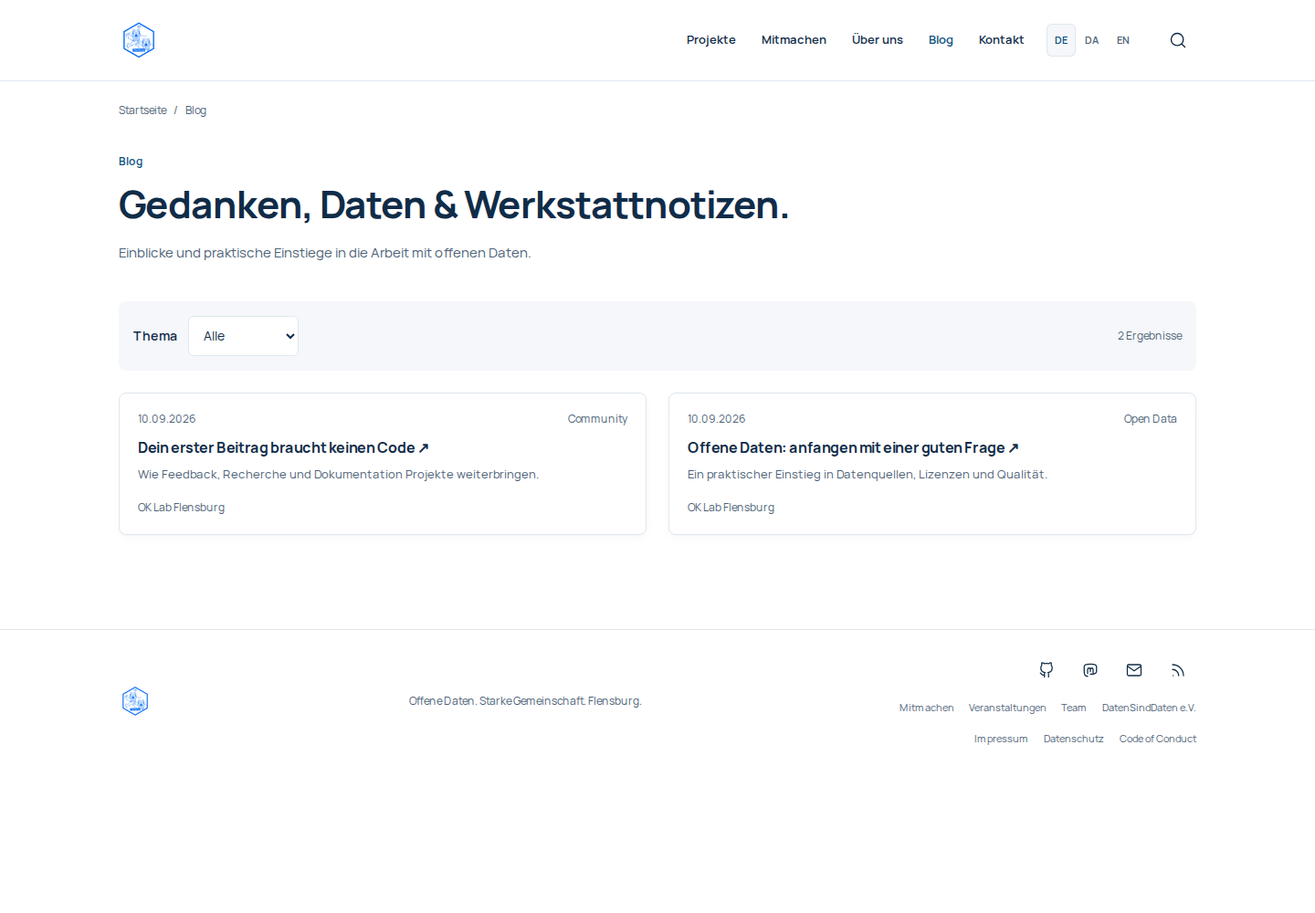
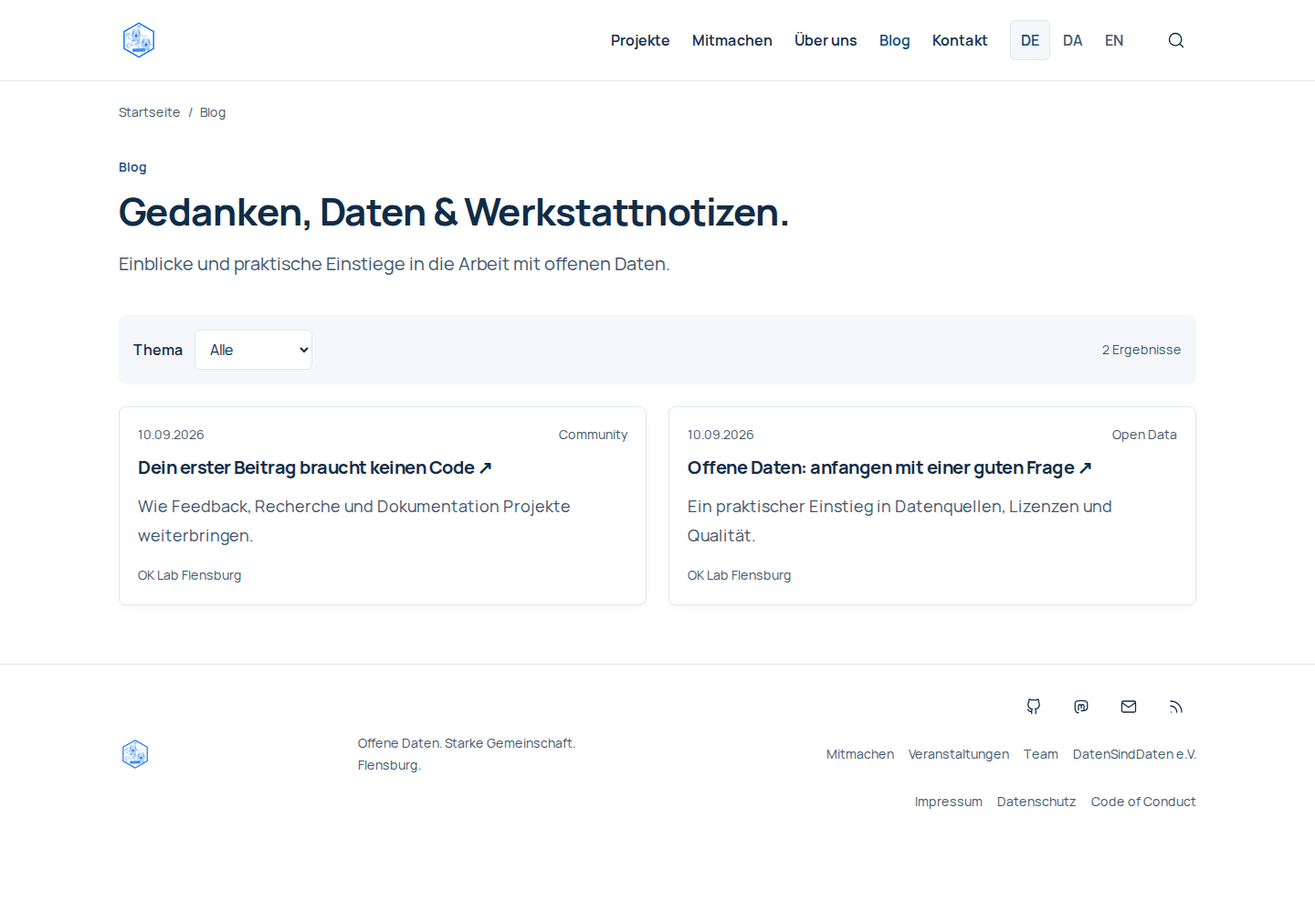
refactor(ui): improve typography and readability

diff --git a/app/assets/css/main.css b/app/assets/css/main.css
@@ -6,7 +6,7 @@
   --color-surface: #ffffff;
   --color-surface-muted: #f5f7fa;
   --color-text: #102c48;
-  --color-text-muted: #4e6277;
+  --color-text-muted: #40566b;
   --color-border: #dfe7ee;
   --font-sans: 'Manrope', ui-sans-serif, system-ui, sans-serif;
   --radius-sm: 6px;
@@ -23,9 +23,10 @@
 }
 
 @layer base {
-  body { @apply m-0 bg-surface font-sans text-text antialiased leading-relaxed; }
+  body { @apply m-0 bg-surface font-sans text-base leading-7 text-text antialiased; }
   a { text-underline-offset: 0.22em; }
   button, input, select { font: inherit; }
+  input::placeholder { @apply text-text-muted opacity-100; }
   code, pre, kbd, samp { @apply font-sans; }
   button, a, select { -webkit-tap-highlight-color: transparent; }
   button { @apply cursor-pointer; }
@@ -37,30 +38,32 @@
 }
 
 @layer components {
+  /* Tailwind type scale: body 16/18, lead 18/20, metadata 14, micro 12.
+     Keep long-form text at 28/32 px line height and at most 48rem wide. */
   .shell { @apply mx-auto w-[calc(100%-2.5rem)] max-w-[1180px] md:w-[calc(100%-4rem)]; }
   .page { @apply min-h-[60vh] pb-16; }
   .header { @apply border-b border-border bg-white; }
   .header-inner { @apply flex min-h-[76px] items-center gap-6 md:min-h-[88px]; }
   .brand { @apply flex shrink-0 items-center gap-3 no-underline; }
-  .desktop-nav { @apply ml-auto hidden items-center gap-7 text-[13px] font-semibold min-[1101px]:flex; }
+  .desktop-nav { @apply ml-auto hidden items-center gap-6 text-base font-semibold min-[1101px]:flex; }
   .desktop-nav a { @apply py-3 no-underline hover:text-brand; }
   .desktop-nav .router-link-active { @apply text-brand; }
   .desktop-languages { @apply hidden min-[1101px]:block; }
   .languages { @apply flex items-center gap-0.5; }
-  .languages a { @apply grid min-h-9 min-w-8 place-items-center rounded-sm text-[11px] font-semibold text-text-muted no-underline; }
+  .languages a { @apply grid min-h-11 min-w-11 place-items-center rounded-sm text-base font-semibold text-text-muted no-underline; }
   .languages a[aria-current] { @apply bg-surface-muted text-brand ring-1 ring-inset ring-border; }
-  .icon-button { @apply inline-flex size-10 shrink-0 items-center justify-center rounded-sm text-text hover:bg-surface-muted; }
-  .menu-toggle { @apply ml-auto flex min-h-11 items-center gap-2 rounded-sm border border-border bg-white px-3 text-xs font-semibold min-[1101px]:hidden; }
+  .icon-button { @apply inline-flex size-11 shrink-0 items-center justify-center rounded-sm text-text hover:bg-surface-muted; }
+  .menu-toggle { @apply ml-auto flex min-h-11 items-center gap-2 rounded-sm border border-border bg-white px-3 text-base font-semibold min-[1101px]:hidden; }
   .mobile-panel { @apply pb-4 min-[1101px]:hidden; }
-  .mobile-panel nav:not(.languages) { @apply mb-3 grid grid-cols-2; }
-  .mobile-panel nav:not(.languages) a { @apply py-3 text-sm font-semibold no-underline; }
+  .mobile-panel nav:not(.languages) { @apply mb-3 grid grid-cols-2 gap-x-4; }
+  .mobile-panel nav:not(.languages) a { @apply min-h-11 py-3 text-lg font-semibold no-underline; overflow-wrap: anywhere; }
   .skip-link { @apply fixed -top-24 left-4 z-20 bg-brand px-4 py-3 text-white focus:top-4; }
-  .button { @apply inline-flex min-h-11 items-center justify-center gap-3 rounded-sm border border-transparent bg-brand px-5 py-2.5 text-sm font-semibold text-white no-underline transition-colors hover:bg-brand-dark; }
+  .button { @apply inline-flex min-h-11 max-w-full items-center justify-center gap-3 rounded-sm border border-transparent bg-brand px-5 py-2.5 text-base leading-6 font-semibold text-white no-underline transition-colors hover:bg-brand-dark; }
   .button-secondary { @apply border-[#8096ab] bg-white text-text hover:bg-surface-muted; }
   .button-row { @apply flex flex-wrap gap-3; }
-  .text-link { @apply inline-flex items-center gap-2 py-2 text-xs font-semibold text-brand no-underline hover:underline; }
-  .lead { @apply mb-6 max-w-[620px] text-[15px] leading-relaxed text-text-muted; }
-  .eyebrow { @apply mb-3 text-xs font-semibold text-brand; }
+  .text-link { @apply inline-flex min-h-11 items-center gap-2 py-2 text-base leading-7 font-semibold text-brand no-underline hover:underline; }
+  .lead { @apply mb-6 max-w-2xl text-lg leading-7 text-text-muted md:text-xl md:leading-8; }
+  .eyebrow { @apply mb-3 text-sm font-semibold text-brand; }
   .hero { @apply relative grid items-center gap-2 py-9 md:min-h-[470px] md:grid-cols-[45%_55%] md:gap-0 md:py-12; }
   .hero-copy { @apply relative z-10; }
   .hero h1 { @apply mb-6 max-w-[550px] text-[34px] font-extrabold leading-[1.08] tracking-[-0.035em] md:text-[46px] lg:text-[52px]; }
@@ -68,18 +71,18 @@
   .hero-visual { @apply relative -mx-5 h-[280px] overflow-hidden md:absolute md:inset-y-0 md:right-[-32px] md:m-0 md:h-auto md:w-[65%]; }
   .hero-visual img { @apply size-full object-cover; }
   .hero-map-fade { @apply pointer-events-none absolute inset-0 bg-linear-to-b from-white via-transparent to-white md:bg-linear-to-r md:from-white md:via-white/10 md:to-transparent; }
-  .map-credit { @apply absolute right-4 bottom-3 rounded-sm bg-white/95 px-2 py-1 text-[10px] text-text-muted; }
+  .map-credit { @apply absolute right-4 bottom-3 rounded-sm bg-white/95 px-2 py-1 text-xs text-text-muted; }
   .map-caption { @apply absolute right-8 bottom-14 max-w-36 text-right text-sm font-semibold leading-relaxed text-brand md:bottom-16; }
   .pillars { @apply bg-surface-muted; }
   .pillars-inner { @apply grid grid-cols-2 gap-x-3 gap-y-6 py-6 md:grid-cols-4 md:gap-6 md:py-7; }
   .pillars article { @apply flex items-start gap-3; }
   .pillar-icon { @apply mt-0.5 inline-flex shrink-0 text-text; }
-  .pillars h2 { @apply mb-1 text-[13px] font-bold tracking-normal md:text-sm; }
-  .pillars p { @apply m-0 text-xs leading-relaxed text-text-muted; }
+  .pillars h2 { @apply mb-1 text-base font-bold tracking-normal leading-snug; }
+  .pillars p { @apply m-0 text-sm leading-6 text-text-muted; }
   .section { @apply py-9 md:py-10; }
-  .section-heading { @apply mb-5 flex items-center justify-between gap-4; }
-  .section-heading h2 { @apply mb-0 text-2xl md:text-[28px]; }
-  .section-heading p:not(.eyebrow) { @apply mb-0 text-sm text-text-muted; }
+  .section-heading { @apply mb-5 flex flex-wrap items-center justify-between gap-x-4 gap-y-2; }
+  .section-heading h2 { @apply mb-0 text-2xl md:text-3xl; }
+  .section-heading p:not(.eyebrow) { @apply mb-0 text-base leading-7 text-text-muted md:text-lg md:leading-8; }
   .section-heading .text-link { @apply shrink-0; }
   .project-grid { @apply grid grid-cols-1 gap-6 sm:grid-cols-2 lg:grid-cols-3; }
   .card { @apply overflow-hidden rounded-md border border-border bg-white shadow-card; }
@@ -88,56 +91,56 @@
   .project-picture img { @apply size-full max-h-52 max-w-52 object-contain; }
   .card-body { @apply p-5; }
   .project-card .card-body { @apply flex grow flex-col; }
-  .card h2, .card h3 { @apply mb-2 text-base font-bold leading-snug; }
+  .card h2, .card h3 { @apply mb-3 text-xl font-bold leading-snug; overflow-wrap: anywhere; }
   .card h2 a, .card h3 a { @apply no-underline hover:text-brand; }
-  .card p { @apply mb-4 text-[13px] leading-relaxed text-text-muted; }
+  .card p { @apply mb-4 text-base leading-7 text-text-muted md:text-lg md:leading-8; }
   .project-card .tags { @apply mt-auto mb-2; }
   .tags { @apply flex flex-wrap gap-2; }
-  .tags span { @apply rounded-sm bg-[#eaf0f6] px-2 py-1 text-[11px] leading-tight text-text; }
-  .card-meta { @apply mb-3 flex flex-wrap items-center justify-between gap-2 text-xs text-text-muted; }
-  .meeting-panel { @apply grid gap-6 rounded-lg bg-surface-muted p-6 md:grid-cols-[1.25fr_1fr_.8fr] md:items-center md:p-6; }
-  .meeting-panel h2 { @apply mb-4 text-2xl md:text-[28px]; }
+  .tags span { @apply rounded-sm bg-[#eaf0f6] px-2 py-1 text-sm leading-6 text-text; overflow-wrap: anywhere; }
+  .card-meta { @apply mb-3 flex flex-wrap items-center justify-between gap-2 text-sm text-text-muted; }
+  .meeting-panel { @apply grid gap-6 rounded-lg bg-surface-muted p-6 lg:grid-cols-[1.25fr_1fr_.8fr] lg:items-center; }
+  .meeting-panel h2 { @apply mb-4 text-2xl md:text-3xl; }
   .meeting-details { @apply flex items-start gap-4; }
-  .meeting-panel p { @apply mb-2 text-sm text-text-muted; }
+  .meeting-panel p { @apply mb-3 text-base leading-7 text-text-muted; }
   .meeting-panel .meeting-time { @apply font-bold text-text; }
-  .meeting-panel .button { @apply mt-2 min-h-9 px-4 py-2 text-xs; }
-  .meeting-note { @apply md:pl-2; }
-  .meeting-note p { @apply mb-3 max-w-72 text-sm text-text; }
+  .meeting-panel .button { @apply mt-2 px-4; }
+  .meeting-note { @apply lg:pl-2; }
+  .meeting-note p { @apply mb-3 text-text; }
   .muted { @apply text-text-muted; }
   .home-updates { @apply grid gap-7 py-9 md:grid-cols-[1.25fr_1fr] md:gap-10 md:py-10; }
   .news-list { @apply m-0 list-none p-0; }
   .news-list li { @apply flex gap-4 border-b border-border py-3 last:border-0; }
-  .news-list a { @apply text-sm font-medium no-underline hover:text-brand hover:underline; }
-  .news-list time { @apply block text-xs text-text-muted; }
+  .news-list a { @apply text-base leading-7 font-medium no-underline hover:text-brand hover:underline md:text-lg md:leading-8; }
+  .news-list time { @apply block text-sm text-text-muted; }
   .join-card { @apply rounded-md bg-surface-muted p-6; }
   .join-card h2 { @apply mb-3 text-2xl; }
-  .join-card p { @apply mb-5 text-sm leading-relaxed text-text-muted; }
-  .join-card .button { @apply min-h-9 px-4 py-2 text-xs; }
+  .join-card p { @apply mb-5 text-base leading-7 text-text-muted md:text-lg md:leading-8; }
   .blog-grid { @apply grid gap-6 md:grid-cols-2; }
-  .blog-card .byline { @apply mb-0 mt-4 text-xs; }
+  .blog-card .byline { @apply mb-0 mt-4 text-sm leading-6; }
   .footer { @apply border-t border-border bg-white py-6; }
   .footer-inner { @apply flex flex-wrap items-center justify-between gap-x-8 gap-y-5; }
-  .footer-tagline { @apply m-0 max-w-64 text-xs text-text-muted; }
+  .footer-tagline { @apply m-0 max-w-72 text-sm leading-6 text-text-muted; }
   .footer-links { @apply flex flex-col gap-2 md:items-end; }
   .footer-social { @apply flex items-center gap-2; }
   .footer nav { @apply flex flex-wrap gap-x-4 gap-y-2; }
-  .footer nav a { @apply py-1 text-[11px] text-text-muted no-underline hover:text-brand hover:underline; }
-  .breadcrumbs { @apply pt-6 text-xs text-text-muted; }
+  .footer nav a { @apply inline-flex min-h-11 items-center py-2 text-sm text-text-muted no-underline hover:text-brand hover:underline; }
+  .breadcrumbs { @apply pt-6 text-sm text-text-muted; }
   .breadcrumbs ol { @apply m-0 flex list-none flex-wrap gap-2 p-0; }
   .breadcrumbs li:not(:last-child)::after { @apply ml-2 text-text-muted; content: '/'; }
   .breadcrumbs a { @apply no-underline hover:underline; }
   .page-heading { @apply py-8 md:py-10; }
   .page-heading h1 { @apply mb-4 max-w-[880px] text-[32px] md:text-[42px]; overflow-wrap: anywhere; }
   .page-heading .lead { @apply mb-0; }
-  .filter-bar { @apply mb-6 flex flex-wrap items-center gap-3 rounded-md bg-surface-muted p-4 text-sm; }
+  .filter-bar { @apply mb-6 flex flex-wrap items-center gap-3 rounded-md bg-surface-muted p-4 text-base; }
   .filter-bar label { @apply font-semibold; }
   .filter-bar select, .filter-bar input { @apply min-h-11 max-w-full rounded-sm border border-border bg-white px-3 py-2; }
   .filter-bar input { @apply w-full sm:w-52; }
-  .filter-bar p { @apply m-0 text-xs text-text-muted md:ml-auto; }
+  .filter-bar p { @apply m-0 text-sm text-text-muted md:ml-auto; }
   .empty { @apply rounded-md bg-surface-muted p-6; }
-  .detail-grid, .editorial-grid { @apply grid items-start gap-8 md:grid-cols-[2.2fr_1fr] md:gap-12; }
+  .detail-grid, .editorial-grid { @apply grid items-start gap-8 lg:grid-cols-[2.2fr_1fr] lg:gap-12; }
+  .detail-grid > *, .editorial-grid > *, .meeting-panel > * { @apply min-w-0; }
   .detail-aside { @apply flex flex-col gap-4 p-6; }
-  .detail-aside h2 { @apply -mb-2 text-sm; }
+  .detail-aside h2 { @apply -mb-2 text-base; }
   .detail-aside p { @apply mb-2; }
   .detail-aside .button { @apply mt-4; }
   .detail-visual { @apply mb-8 flex aspect-[4/3] max-h-[420px] items-center justify-center rounded-md border border-border bg-[#f3f7fa] p-6; }
@@ -147,23 +150,28 @@
   .contact-panel h2 { @apply mb-2 text-xl; }
   .contact-panel a { @apply mr-8 break-all; }
   .editorial-grid + .meeting-panel { @apply mt-10; }
-  .article-width { @apply mx-auto max-w-[800px]; }
+  .article-width { @apply mx-auto max-w-3xl; }
   .article-meta { @apply mb-4 flex flex-wrap gap-4 text-sm text-text-muted; }
   .article-width > .tags { @apply mb-8; }
-  .pagination { @apply mt-8 flex items-center justify-center gap-6 text-sm; }
+  .pagination { @apply mt-8 flex flex-wrap items-center justify-center gap-6 text-base; }
   .event-card { @apply mb-4 p-6; }
-  .event-card time { @apply text-sm font-bold text-brand; }
-  .prose { @apply max-w-[760px] text-[15px] leading-[1.8] text-text-muted; }
-  .prose h2 { @apply mt-8 mb-4 text-2xl text-text; }
+  .event-card time { @apply text-base font-bold text-brand; }
+  .prose { @apply max-w-3xl text-base leading-7 text-text-muted md:text-lg md:leading-8; overflow-wrap: anywhere; }
+  .prose h2 { @apply mt-10 mb-4 text-2xl text-text; }
   .prose h2:first-child { @apply mt-0; }
-  .prose h3 { @apply mt-6 mb-3 text-lg text-text; }
-  .prose p { @apply mb-4; }
+  .prose h3 { @apply mt-8 mb-3 text-xl text-text; }
+  .prose p { @apply mb-6; }
   .prose a { @apply text-brand underline; }
   .prose h2 a, .prose h3 a { @apply text-inherit no-underline; }
   .prose ul, .prose ol { @apply mb-6 list-disc pl-5; }
   .prose ol { @apply list-decimal; }
   .prose li { @apply my-2; }
   .prose strong { @apply font-bold text-text; }
+  .prose blockquote { @apply my-6 border-l-4 border-border pl-5 text-text; }
+  .prose table { @apply my-6 block max-w-full overflow-x-auto text-base leading-7; }
+  .prose th, .prose td { @apply border-b border-border px-4 py-3 text-left align-top; }
+  .prose pre { @apply my-6 max-w-full overflow-x-auto rounded-md bg-surface-muted p-4 text-base leading-7; }
+  .prose :not(pre) > code { @apply rounded-sm bg-surface-muted px-1; }
 }
 
 @media (prefers-reduced-motion: reduce) {

diff --git a/tests/e2e/typography.spec.ts b/tests/e2e/typography.spec.ts
@@ -1,0 +1,56 @@
+import { expect, test } from '@playwright/test'
+
+const pages = ['/', '/projekte', '/projekte/open-city-planner', '/blog', '/blog/offene-daten-verstehen', '/ueber-uns', '/mitmachen', '/daten-sind-daten', '/kontakt', '/impressum', '/datenschutz', '/team', '/veranstaltungen']
+
+test('body copy and controls remain readable across page types', async ({ page, isMobile }) => {
+  await page.setViewportSize({ width: isMobile ? 390 : 1440, height: 1000 })
+  for (const path of pages) {
+    await page.goto(path)
+    await page.evaluate(() => document.fonts.ready)
+    const smallCopy = await page.locator('.prose p, .prose li, .card p:not(.byline):not(.eyebrow), .lead, .meeting-panel p, .join-card p, .button, .text-link, .filter-bar input, .filter-bar select').evaluateAll((nodes) =>
+      nodes.filter((node) => parseFloat(getComputedStyle(node).fontSize) < 16).map((node) => node.textContent),
+    )
+    expect(smallCopy, path).toEqual([])
+    const prose = page.locator('.prose')
+    if (await prose.count()) {
+      await expect(prose).toHaveCSS('font-size', isMobile ? '16px' : '18px')
+      await expect(prose).toHaveCSS('line-height', isMobile ? '28px' : '32px')
+      expect(await prose.evaluate((node) => node.getBoundingClientRect().width)).toBeLessThanOrEqual(768)
+    }
+    expect(await page.evaluate(() => document.documentElement.scrollWidth <= innerWidth), path).toBe(true)
+  }
+  await page.goto('/')
+  if (isMobile) {
+    await page.getByRole('button', { name: 'Menü öffnen' }).click()
+    await expect(page.locator('#mobile-navigation nav:not(.languages) a').first()).toHaveCSS('font-size', '18px')
+  } else {
+    await expect(page.locator('.desktop-nav a').first()).toHaveCSS('font-size', '16px')
+  }
+  const undersizedTargets = await page.locator('.button, .menu-toggle, .icon-button, .languages a').evaluateAll((nodes) =>
+    nodes.filter((node) => node.getBoundingClientRect().width > 0 && node.getBoundingClientRect().height < 44).map((node) => node.outerHTML),
+  )
+  expect(undersizedTargets).toEqual([])
+})
+
+test('zoom-equivalent and narrow viewports reflow without clipped content', async ({ page, isMobile }) => {
+  test.skip(isMobile)
+  // A 1440 px desktop at 200% browser zoom has a 720 CSS-pixel viewport.
+  // Also check 320 CSS pixels for narrow-screen reflow, without hiding overflow.
+  for (const width of [720, 320]) {
+    await page.setViewportSize({ width, height: 1000 })
+    for (const path of [...pages, '/da', '/en', '/da/projekte', '/en/projekte']) {
+      await page.goto(path)
+      await page.evaluate(() => document.fonts.ready)
+      expect(await page.evaluate(() => document.documentElement.scrollWidth <= innerWidth), `${width}: ${path}`).toBe(true)
+      const clipped = await page.locator('.card, .button, .prose, .meeting-panel, .join-card').evaluateAll((nodes) =>
+        nodes.filter((node) => node.scrollWidth > node.clientWidth + 1).map((node) => node.className),
+      )
+      expect(clipped, `${width}: ${path}`).toEqual([])
+    }
+    await page.goto('/')
+    await page.getByRole('button', { name: 'Menü öffnen' }).click()
+    expect(await page.evaluate(() => document.documentElement.scrollWidth <= innerWidth)).toBe(true)
+    await page.locator('#mobile-navigation').getByRole('link', { name: 'Mitmachen', exact: true }).click()
+    await expect(page).toHaveURL('/mitmachen')
+  }
+})

diff --git a/app/pages/projekte/[slug].vue b/app/pages/projekte/[slug].vue
@@ -40,12 +40,12 @@ usePageSeo(
         /></div><ContentRenderer class="prose" :value="project" />
       </article>
       <aside class="card detail-aside">
-        <NuxtLink :to="localePath('/ueber-uns')" class="mb-2 flex items-center justify-between gap-4 border-b border-border pb-4 text-xs text-text-muted no-underline hover:text-brand">
+        <NuxtLink :to="localePath('/ueber-uns')" class="mb-2 flex items-center justify-between gap-4 border-b border-border pb-4 text-sm text-text-muted no-underline hover:text-brand">
           <span>{{ $t('brand.projectBy') }}</span>
           <AppLogo size="sm" />
         </NuxtLink>
         <h2>{{ $t('common.status') }}</h2>
-        <p class="text-sm">{{ $t(`status.${project.status}`) }}</p>
+        <p>{{ $t(`status.${project.status}`) }}</p>
         <h2 v-if="project.technologies.length">
           {{ $t('common.technologies') }}
         </h2>

diff --git a/app/components/MeetingSection.vue b/app/components/MeetingSection.vue
@@ -17,11 +17,11 @@ const localePath = useLocalePath()
     </div>
     <figure class="m-0">
       <NuxtImg src="/images/codefor-workshop.jpeg" :alt="$t('meeting.imageAlt')" width="440" height="280" sizes="sm:100vw md:35vw" loading="lazy" class="aspect-[11/7] w-full rounded-sm object-cover" />
-      <figcaption class="mt-1 text-[10px] text-text-muted">{{ $t('meeting.imageCaption') }}</figcaption>
+      <figcaption class="mt-2 text-sm leading-6 text-text-muted">{{ $t('meeting.imageCaption') }}</figcaption>
     </figure>
     <div class="meeting-note">
       <p>{{ $t('meeting.welcome') }}</p>
-      <p class="!text-xs !text-text-muted">{{ $t('meeting.note') }}</p>
+      <p>{{ $t('meeting.note') }}</p>
       <a :href="site.meeting.map" class="text-link">{{ $t('meeting.map') }} <AppIcon name="arrow" :size="16" /></a>
     </div>
   </section>

diff --git a/docs/typography.md b/docs/typography.md
@@ -1,0 +1,87 @@
+# Typografie und Lesbarkeit
+
+Die bestehende Tailwind-4-Skala in `app/assets/css/main.css` bleibt die einzige Typografiequelle. Manrope wird weiterhin lokal geladen. Keine zusätzliche Typography-Bibliothek, Fontdatei oder parallele Token-Skala.
+
+## Audit und Umsetzung
+
+Das Audit umfasste globale Styles, alle Vue-Seiten und Komponenten, Nuxt-Content-Ausgabe, Header/Footer, Projektkarten und Details, Blog, Events, Team, Mitmachen, Über uns, Verein, Kontakt und rechtliche Seiten. Es gab keine separate Tailwind-Konfiguration und kein `prose-sm`; die vorhandene `.prose`-Klasse ist das gemeinsame Content-Styling. Viele normale Texte waren dennoch nur 13–15 px groß; Bedientexte und Metadaten teilweise 10–12 px. Kleine Inline-Overrides in MeetingSection und Projekt-Details verstärkten das Problem.
+
+| Rolle | Vorher | Jetzt |
+| --- | --- | --- |
+| Body-Standard | implizit 16 px / 1,625 | explizit `text-base leading-7` (16/28 px) |
+| Redaktioneller Text, Blog, Projekttexte | 15/27 px | mobil 16/28 px, ab `md` 18/32 px, maximal `max-w-3xl` (768 px) |
+| Einleitung / Hero-Beschreibung | 15 px | 18/28 px, ab `md` 20/32 px |
+| Desktop-Navigation / Sprachwahl | 13/11 px | 16 px |
+| Mobile Navigation | 14 px | 18 px |
+| Buttons / weiterführende Links | 12–14 px | 16 px, mindestens 44 px Höhe |
+| Kartenüberschrift | 16 px | 20 px |
+| Projekt-/Blog-/Team-/Eventbeschreibung | 13 px | 16/28 px, ab `md` 18/32 px |
+| Meeting-Angaben und Hinweise | 12–14 px | 16/28 px |
+| Tags, Daten, Byline, Footer | 11–12 px | 14 px |
+
+Die Hero- und Seitentitel bleiben unverändert. Abschnittstitel nutzen 24/30 px; längere Absätze bekommen 24 px Abstand. Die redaktionelle Breite begrenzt lange Zeilen auf ungefähr 60–80 Zeichen, abhängig vom Text. Blockquotes, Listen, Links, Tabellen und Codeblöcke teilen das Content-Styling; breite Tabellen und Codeblöcke dürfen innerhalb ihres eigenen Bereichs scrollen.
+
+Die gemeinsamen Kartenregeln erreichen auch Eventbeschreibungen und Team-Bios. Derzeit sind keine freigegebenen Teamprofile oder zusätzlichen Veranstaltungseinträge verfügbar; für den Review wurden keine Personen oder Termine erfunden.
+
+## Umbruch und Bedienung
+
+- Abschnittsüberschrift und Link dürfen auf getrennte Zeilen umbrechen.
+- Redaktionelle Seiten, Projekt-Details und der Meeting-Block wechseln erst ab `lg` in ihr mehrspaltiges Layout; darunter bleibt Platz für gut lesbare Zeilen.
+- Karten- und Content-Titel können lange Wörter umbrechen; Grid-Kinder dürfen schrumpfen. Es wird kein Seitenüberlauf versteckt.
+- Buttons, Menüschalter, Sprachwahl und Iconlinks bieten mindestens 44 px hohe Ziele. Footerlinks erhalten ebenfalls 44 px Höhe.
+- Fokusrahmen und Unterstreichungen im Fließtext bleiben erhalten.
+
+## Kontrast
+
+Der gemeinsame Sekundärtext wird von `#4e6277` auf `#40566b` abgedunkelt. Das betrifft Beschreibungen, Artikeltext, Metadaten und Footer, ohne die helle Variante-1-Palette zu ändern. Platzhalter im Suchfeld verwenden ebenfalls diesen Ton mit voller Deckkraft statt aufgehellter Standardschrift.
+
+| Hintergrund | Vorher | Jetzt |
+| --- | --- | --- |
+| Weiß `#ffffff` | 6,29:1 | 7,60:1 |
+| Helle Fläche `#f5f7fa` | 5,86:1 | 7,09:1 |
+
+Berechnet aus der relativen sRGB-Luminanz. Navy-Überschriften `#102c48` und blaue Links/Buttons `#0b4f80` bleiben erhalten (14,23:1 bzw. 8,59:1 gegen Weiß).
+
+## Bewusst kleinere Schrift: abschließender Suchaudit
+
+`text-xs` bleibt ausschließlich an `.map-credit`: die kurze OpenStreetMap-Attribution wächst von 10 auf 12 px. Kein `prose-sm`, `leading-4` oder `leading-5` ist vorhanden. Enge Zeilenhöhen betreffen Überschriften, keine Inhaltsabsätze.
+
+Alle verbleibenden `text-sm`-Treffer sind geprüfte Sekundärrollen:
+
+- `.eyebrow`: kurzer Rubrikenname.
+- `.map-caption`: kurze Kartenbeschriftung.
+- `.pillars p`: kurze Kennzahlen-/Eigenschaftslabels und Zeitangabe.
+- `.tags span`: Kategorien und technische Tags.
+- `.card-meta`, `.news-list time`, `.blog-card .byline`, `.article-meta`: Datum, Kategorie und Autor.
+- `.footer-tagline`, `.footer nav a`: ergänzender Footer und rechtliche Navigation.
+- `.breadcrumbs`: Standortnavigation.
+- `.filter-bar p`: Ergebnisanzahl, kein Eingabefeld.
+- Projekt-Absender: kurzer Organisationshinweis neben dem kanonischen Logo.
+- Meeting-Fotounterschrift: Herkunft des historischen Fotos.
+
+Normale Beschreibungen, CTA-Hinweise, Kontaktdaten und Projektstatus verwenden mindestens 16 px.
+
+## Validierung und Screenshots
+
+Die Browserprüfungen kontrollieren Schriftgrößen, Content-Breite, Zeilenhöhe, Touch-Ziele und horizontalen Überlauf über 13 Seitentypen. Reflow wird bei 720 CSS-Pixeln (entspricht der Layoutbreite eines 1440-px-Fensters bei 200 % Browserzoom) und zusätzlich bei 320 CSS-Pixeln geprüft, einschließlich Sprachvarianten und funktionsfähiger Navigation. Das ist eine Prüfung der effektiven Layoutbreite, keine Automatisierung des Browser-Zoommenüs.
+
+| Seite | Desktop 1440 px | Mobil 390 px |
+| --- | --- | --- |
+| Startseite | [Screenshot](screenshots/desktop-home.png) | [Screenshot](screenshots/mobile-home.png) |
+| Projekte | [Screenshot](screenshots/desktop-projekte.png) | [Screenshot](screenshots/mobile-projekte.png) |
+| Über uns | [Screenshot](screenshots/desktop-ueber-uns.png) | [Screenshot](screenshots/mobile-ueber-uns.png) |
+| Mitmachen | [Screenshot](screenshots/desktop-mitmachen.png) | [Screenshot](screenshots/mobile-mitmachen.png) |
+| Blog | [Screenshot](screenshots/desktop-blog.png) | [Screenshot](screenshots/mobile-blog.png) |
+| Verein | [Screenshot](screenshots/desktop-daten-sind-daten.png) | [Screenshot](screenshots/mobile-daten-sind-daten.png) |
+
+Alle zwölf Desktop-/Mobile-Screenshots wurden mit dem Ausgangsstand verglichen. Beschreibungen, Bedienelemente und Footer sind deutlich größer; Karten, helle Flächen, Bildgrößen und die vorhandenen Marken bleiben erhalten. Lange Titel umbrechen vollständig. Zusätzlich wurden ein Blogartikel, das geöffnete Mobile-Menü und die 720-px-Startseite visuell geprüft. Keine abgeschnittenen Inhalte oder horizontalen Seitenüberläufe festgestellt.
+
+| Prüfung | Ergebnis |
+| --- | --- |
+| `pnpm lint` | erfolgreich |
+| `pnpm typecheck` | erfolgreich |
+| `pnpm test` | 27 Unit-Tests bestanden |
+| `pnpm build` | erfolgreich, einschließlich erneutem Build nach der Platzhalter-Kontrastkorrektur |
+| `pnpm test:e2e` | 33 Tests bestanden, 3 beabsichtigte gerätespezifische Ausnahmen übersprungen |
+| Abschließender Browserlauf nach Platzhalter-Korrektur | 9 betroffene Prüfungen bestanden, 1 Ausnahme übersprungen: Screenshots, axe, Suche, Schriftgrößen und Reflow |
+| Quelltext-Audit | nur begründete kleine Schrift; keine zweite Architektur, Bibliothek oder Content-Quelle |

diff --git a/docs/design-reference.md b/docs/design-reference.md
@@ -11,9 +11,9 @@ Die Vorlage zeigt eine kompakte neutrale Sans-Serif, kräftige dunkelblaue Über
 | Inhalt | max. 1180 px, mittig; außen mindestens 32 px Desktop / 20 px Mobil |
 | Header | 88 px Desktop / 76 px Mobil, weiße Fläche, 1 px Border, Logo 44 px |
 | Hero | 45/55-Aufteilung; Navy-Headline 52 px Desktop / 34 px Mobil, Gewicht 800, Zeilenhöhe 1.08, Laufweite −0.035 em |
-| Abschnitte | Überschriften 28/24 px, Gewicht 700; 36–40 px Abschnittsabstand |
-| Fließtext | 15 px, Gewicht 400, Zeilenhöhe 1.625; längere Artikel 1.8 |
-| Navigation / Buttons | 13/14 px, Gewicht 600; primäre Buttons 44 px hoch |
+| Abschnitte | Überschriften 30/24 px, Gewicht 700; 36–40 px Abschnittsabstand |
+| Fließtext | 16 px Mobil / 18 px Desktop, Zeilenhöhe 28/32 px; Einleitungen 18/20 px |
+| Navigation / Buttons | Desktop 16 px, mobile Navigation 18 px, Buttons 16 px; Touch-Ziele mindestens 44 px hoch |
 | Farben | Navy `#102c48`, Blau `#0b4f80`, Weiß, Soft Surface `#f5f7fa`, Border `#dfe7ee` |
 | Rundungen | Buttons 6 px, Karten 8 px, Meeting-Block 12 px |
 | Schatten | zwei sehr schwache Ebenen; ausschließlich Karten |
@@ -23,6 +23,8 @@ Die Vorlage zeigt eine kompakte neutrale Sans-Serif, kräftige dunkelblaue Über
 | Footer | Weiß, obere Border, kompaktes Logo, kleine Links und lineare Social-Icons |
 
 Gemeinsame Tailwind-Tokens und mit `@apply` zusammengesetzte Komponentenklassen liegen in `app/assets/css/main.css`. Seiten und Komponenten verwenden dieselben Klassen. Es gibt keine zweite Designimplementierung, keinen Theme-Schalter und keine zusätzlich geladene Schrift. Die frühere abstrakte Kartenzeichnung, der blaue CTA-Banner, die großflächige Vereinsleiste, der mehrspaltige Footer und deren Styles sind ersetzt.
+
+Die anschließende systematische Lesbarkeitsverbesserung ist in [typography.md](typography.md) dokumentiert: größere Inhalts- und Bedientexte, dunklerer Sekundärton, mehrzeiliger Umbruch und Prüfung schmaler Ansichten.
 
 ## Herkunft der Gestaltungsmittel
 
